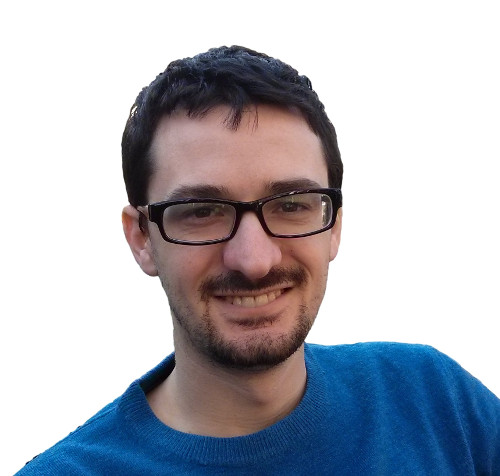
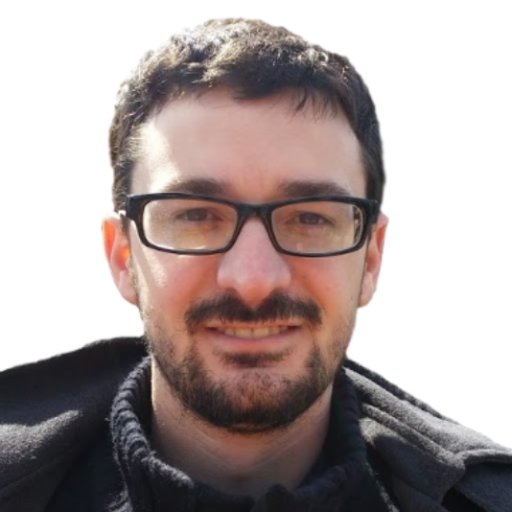
Update photo

diff --git a/public/index.html b/public/index.html
@@ -42,7 +42,7 @@
          <div class="row">
             <div class='center'>
                <p class='title'>Javier Rengel Jiménez</p>
-               <p class='subtitle'>Software Engineer and Indie Game Developer</p>
+               <p class='subtitle'>Senior Software Engineer</p>
             </div>
          </div>
       </div>
@@ -63,7 +63,7 @@
       </div>
       <div class="container hidden-md hidden-lg menu-mobile ">
                 <img src='favicon.png' id='small-photo'/>
-                
+
                 <p> Javier Rengel Jiménez<p>
       </div>
    </div>
@@ -71,17 +71,17 @@
    <div id="about-me" data-stellar-background-ratio="0.2" class='section' >
       <div class="container">
          <h2>About me</h2>
-         
+
          <div class="row">
          <div class="col-sm-10 col-lg-10 column">
-                <p>I like computer science so much I spend most of my spare time building and learning new things (that's why you are looking this page). I always try to build and understand all the parts involved in creating a techonology product, like devops, front-end, design, back-end or even marketing.</p>
-            
+                <p>I like computer science so much I spend most of my spare time building and learning new things. I always try to build and understand all the parts involved in creating a techonology product, like devops, front-end, design, back-end or even marketing.</p>
+
                 <p>I have a "team" called Coconauts so you can find most of my contributions in its main webpage. </p>
             </div>
             <div class="col-sm-2 col-lg-2 column">
                 <img class='coconauts-logo' src='images/coconauts.png'/>
             </div>
-            
+
          </div>
         </div>
     </div>
@@ -125,27 +125,27 @@
         <h2>My CV</h2>
         <p>My CV is available in different and unusual formats, check it by yourself:</p>
 
-        <a href='https://bitbucket.org/rephus/cv/src/master/cv.md' target="_blank"  title="Markdown" class="button"><img src='images/txt.png' class='cv-file'/></a>
+        <a href='https://github.com/rephus/CV/blob/master/cv.md' target="_blank"  title="Markdown" class="button"><img src='images/txt.png' class='cv-file'/></a>
         <a href='/json' target="_blank" title='json' class="button" ><img class='cv-file' src='images/json.png' /></a>
         <a href='/cv.html' target="_blank" title='html' class="button"><img class='cv-file' src='images/html.png' /></a>
         <a href='/cv.odt' title='odt' class="button"><img class='cv-file' src='images/odt.png' /></a>
         <a href='/cv.pdf' title='pdf' class="button"><img class='cv-file' src='images/pdf.png' /></a>
-        
-    
-            <p> The original file is written in markdown, all other files are generated using that markdown file (even json). 
-            For Html and Odt I use pandoc, for json I built my own markdown parser using nodejs (the same server it's powering this page). 
-            You can read more about this in my <a href="https://bitbucket.org/rephus/cv" class="blue">bitbucket repo </a> </p>
-         
+
+
+            <p> The original file is written in markdown, all other files are generated using that markdown file (even json).
+            For Html and Odt I use pandoc, for json I built my own markdown parser using nodejs (the same server it's powering this page).
+            You can read more about this in my <a href="https://github.com/rephus/cv" class="blue">Github repo</a> </p>
+
             <p >Json is a compact machine human-readable easy-to-use format,
-            and it is generated directly from a markdown file using nodejs. 
-            You can read more about this in my <a href="https://bitbucket.org/rephus/cv" class="blue">bitbucket repo </a> </p>
+            and it is generated directly from a markdown file using nodejs.
+            You can read more about this in my <a href="https://github.com/rephus/cv" class="blue">Github repo</a> </p>
       </div>
     </div>
    <div id="follow-up" data-stellar-background-ratio="0.2"  class='section'>
       <div class="container">
          <h2>Follow up</h2>
             <p>First, if you want to know more about me you should visit my "team" webpage at  <a href="http://coconauts.net" class="blue" target="_blank">Coconauts</a> </p>
-            
+
             <p>But also, you can see my social profiles in all the following social networks:</p>
             <div class="row">
                 <div class="col-lg-3 column center">
@@ -164,7 +164,7 @@
             <p>Alternatively, If you'd like to contact me, you can send me an <a href="mailto:javier@coconauts.net" class="blue" target="_blank">email</a>. </p>
       </div>
    </div>
-  
+
    <script type="text/javascript">
       $.stellar( );
       $("#menu").sticky({topSpacing:0});
